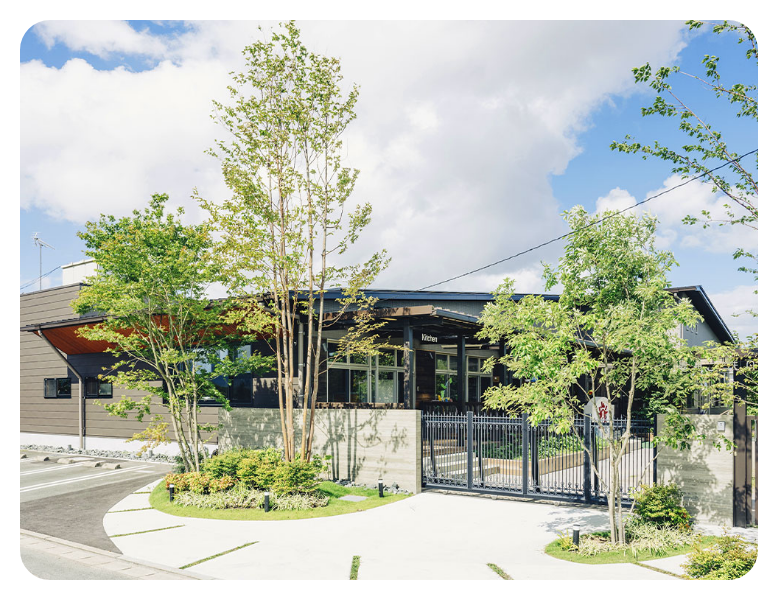
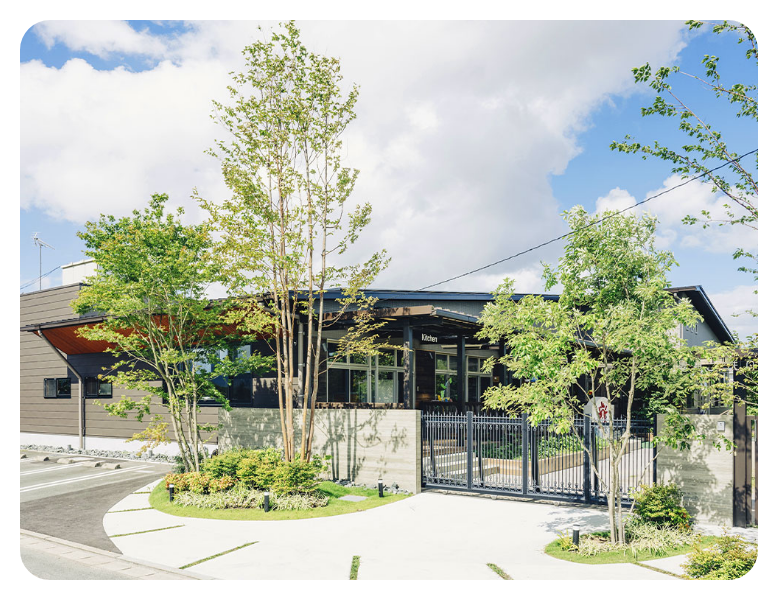
movieエリアの作業途中

diff --git a/assets/css/style.css b/assets/css/style.css
@@ -311,10 +311,8 @@ button,
 input,
 optgroup,
 select,
-textarea {
-  -webkit-appearance: none; /* 1 */
-  -moz-appearance: none;
-       appearance: none;
+textarea { /* 1 */
+  appearance: none;
   vertical-align: middle;
   color: inherit;
   font: inherit;
@@ -649,7 +647,7 @@ textarea {
 
 .c-mainTitle {
   font-size: 75px;
-  font-family: "めもわーる";
+  font-family: "Memoir";
   color: #fff;
 }
 
@@ -669,7 +667,6 @@ textarea {
   background-color: #fff;
   margin: 55px auto 0;
   min-width: 336px;
-  width: -moz-fit-content;
   width: fit-content;
 }
 
@@ -692,7 +689,6 @@ textarea {
   display: block;
   box-sizing: border-box;
   -webkit-user-select: none;
-  -moz-user-select: none;
   user-select: none;
   -webkit-touch-callout: none;
   -khtml-user-select: none;
@@ -956,8 +952,7 @@ textarea {
 .header__logo__img {
   width: 100%;
   height: auto;
-  -o-object-fit: cover;
-     object-fit: cover;
+  object-fit: cover;
 }
 
 .header__listBox {
@@ -986,8 +981,7 @@ textarea {
 .header__list__img {
   width: 100%;
   height: 100%;
-  -o-object-fit: cover;
-     object-fit: cover;
+  object-fit: cover;
 }
 
 .header__list__title {
@@ -1040,8 +1034,7 @@ textarea {
   z-index: 1;
   width: 100%;
   height: 100%;
-  -o-object-fit: cover;
-     object-fit: cover;
+  object-fit: cover;
 }
 
 .kvBox__text {
@@ -1062,7 +1055,6 @@ textarea {
   display: inline-block;
   padding-top: 2px;
   padding-left: 5px;
-  width: -moz-fit-content;
   width: fit-content;
   line-height: 1.5;
 }
@@ -1199,6 +1191,8 @@ textarea {
 }
 
 .movieBox {
+  position: relative;
+  z-index: 2;
   padding-top: 90px;
 }
 

diff --git a/assets/css/scss/base/_component.scss b/assets/css/scss/base/_component.scss
@@ -5,7 +5,7 @@
 
 .c-mainTitle {
   font-size: 75px;
-  font-family: 'めもわーる';
+  font-family: 'Memoir';
   color: #fff;
 }
 

diff --git a/assets/css/scss/page/_top.scss b/assets/css/scss/page/_top.scss
@@ -195,6 +195,8 @@
 }
 
 .movieBox {
+  position: relative;
+  z-index: 2;
   padding-top: 90px;
 }
 
